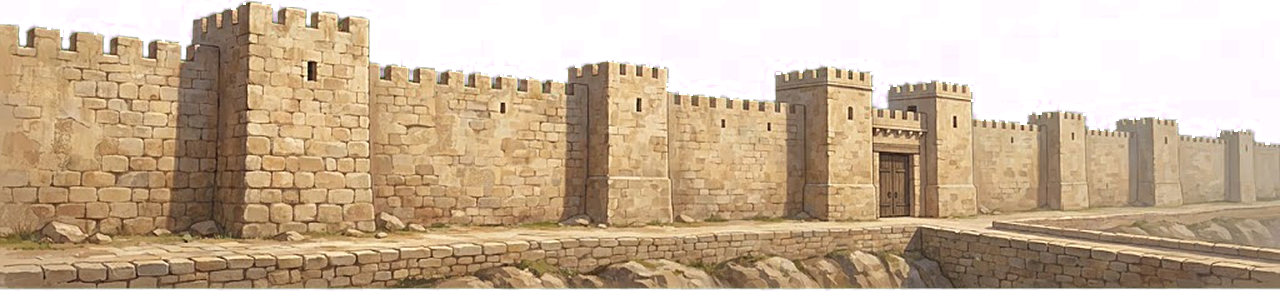
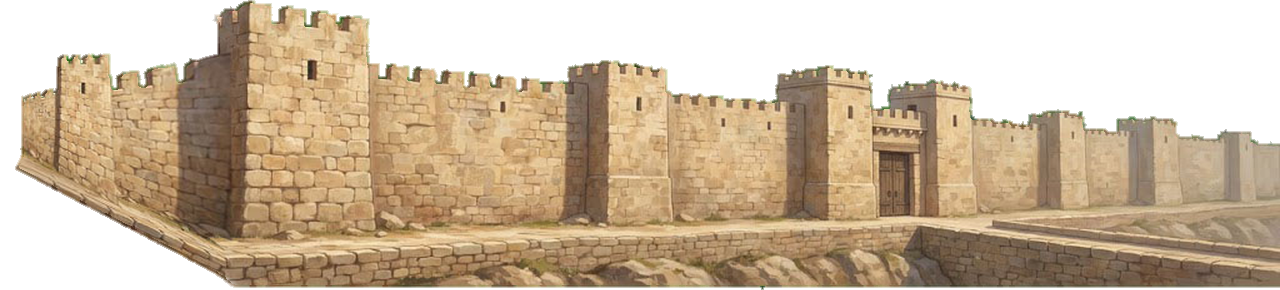
Jerusalem plays again once won (Glen: "it just ends ... nothing to do. David is just there with another guy"): back in after the end, its story starts over at the walls, the map's tick and the Journal's pages kept (jx_ flags); Glen's resaved wall, its new left side, keyed off white (Zion's citadel w
Claude-Session: https://claude.ai/code/session_018JCxWJ972csv1aoHy7ivxa

diff --git a/game/jerusalem.js b/game/jerusalem.js
@@ -77,11 +77,11 @@ HEB.rooms.push(
     far: "w8/jerusalem/zion/far", mid: "w8/jerusalem/zion/mid.png", midY: 386, near: "w8/jerusalem/zion/near.png", nearK: 0.8 },   // (Glen 11-26, Gemini)
 );
 HEB.spreads.push(
-  { id: "js_zion", when: "jr_end", title: "Jerusalem",
+  { id: "js_zion", when: "jx_zion", title: "Jerusalem",
     entry: ["The Jebusites laughed at us from their walls: even the blind and the lame could keep us out. The way in was hidden, under the ground, and I could only find it one step at a time. Now the stronghold of Zion is the LORD's city, and mine to keep for Him.", "2 Samuel 5:6-10"],
     psalm: { ref: "Psalm 122", text: "I was glad when they said to me, “Let’s go to the LORD’s house!” Our feet are standing within your gates, Jerusalem! (122:1-2)" } },
   // (Glen 11-25: his two clips "for the end of the game") the ark comes into the city: his last page
-  { id: "js_ark", when: "jr_ark", title: "The Ark Comes Home", final: true,
+  { id: "js_ark", when: "jx_ark", title: "The Ark Comes Home", final: true,
     entry: ["The ark of the LORD has come into Jerusalem, with shouting and the sound of the trumpet, and I danced before the LORD with all my might. Through the caves and the long years of running, He kept every promise. My heart is steadfast.", "2 Samuel 6:12-15"],
     psalm: { ref: "Psalm 24", text: "Lift up your heads, you gates! Be lifted up, you everlasting doors, and the King of glory will come in. (24:7)" } },
 );
@@ -105,6 +105,16 @@ Object.assign(HEB, {
 
 // ---------------------------------------------------------------------------------------------------------------------
 function jrBuild(R) {
+  // (Glen 11-27: back in after the end "it just ends ... nothing to do. David is just there with another guy") once the
+  //  stronghold is won, Jerusalem plays again from the walls: its story flags off (jx_: what stays won, the map's tick
+  //  and the Journal's pages), back to the valley
+  { const S = region.save;
+    if ((S.taken || []).includes("jr_end")) {   // (the stronghold won: from the ark films on, or left partway through them)
+      for (const [a, b] of [["jr_end", "jx_zion"], ["jr_ark", "jx_ark"]]) if (S.taken.includes(a) && !S.taken.includes(b)) S.taken.push(b);
+      S.taken = S.taken.filter(k => !/^jr_/.test(k));
+      if (!S.atRoom || JR_ROOMS.includes(S.atRoom)) { S.atRoom = "jvalley"; S.atOff = 3; S.at = 0; }
+      regionWrite();
+    } }
   jr.found = {}; jr.stand = null; jr.shown = null; jr.ended = false; jr.water = null; jr.cp = null; jr.jeb.length = 0;
   const P = hbPerson;
   ["w8/jerusalem/jvalley/wall.png", "w8/jerusalem/jvalley/fortress_wall.png", "w8/jerusalem/gorge/bridge.png", "w8/jerusalem/gorge/cliff_l.png", "w8/jerusalem/gorge/cliff_r.png", "w8/jerusalem/gorge_pit.png"].forEach(roomImg);   // (drawn by jrAfterMid, not as a room layer)
@@ -402,7 +412,7 @@ function jrZion() {
     { fn() { david.vx = 0; david.facing = 1; } }, { wait: 2 },
     HB_SAY("", "Nevertheless David took the stronghold of Zion. This is David’s city. (2 Samuel 5:7)"),
     HB_SAY("", "David lived in the stronghold, and called it David’s city. David built around from Millo and inward. David grew greater and greater, for the LORD, the God of Armies, was with him. (2 Samuel 5:9-10)"),
-    { fn() { regionAdd("taken", "jr_end"); regionAdd("taken", "g_exit_open"); hb.cine = null; } }, { wait: 1.2 },
+    { fn() { regionAdd("taken", "jr_end"); regionAdd("taken", "jx_zion"); regionAdd("taken", "g_exit_open"); hb.cine = null; } }, { wait: 1.2 },
     { fn() { jrArk(); } },
   ]);
 }
@@ -413,7 +423,7 @@ function jrArk() {
     HB_SAY("", "David went and brought up God’s ark from the house of Obed-Edom into David’s city with joy. (2 Samuel 6:12)"),
     { fn() {
       region.wait = 99;   // (held here till the films are done)
-      const last = () => { regionAdd("taken", "jr_ark"); region.wait = 0; jsceneOpen(true, "js_ark"); };   // (his last page; then the card, and the road)
+      const last = () => { regionAdd("taken", "jr_ark"); regionAdd("taken", "jx_ark"); region.wait = 0; jsceneOpen(true, "js_ark"); };   // (his last page; then the card, and the road)
       if (/simgame/.test(location.pathname) && !window.JR_FILMS) return last();
       songToggle(true);
       preFilm.start({ src: "../assets/video/ark_enter.mp4", words: [[0.6, 5.4, "The ark comes to Jerusalem", "“…with shouting and with the sound of the trumpet.” (2 Samuel 6:15)"]] }, () =>

diff --git a/game/landmap.js b/game/landmap.js
@@ -20,7 +20,7 @@ const LAND_PLACES = [   // (11-06 draft: placed so the road never crosses itself
   { id: "hachilah", name: "Hachilah", world: "World 7", x: 868, y: 582, stage: "9-13", key: "w7", done: ["h7_end"], room: "wild", after: "carmel" },   // (11-21: w7.js)
   { id: "ziklag", name: "Ziklag", world: "World 7", x: 656, y: 512, stage: "9-13", key: "w7", done: ["z7_end"], room: "aphek", after: "hachilah" },   // (11-23: zk7.js)
   { id: "hebron", name: "Hebron", world: "World 8", x: 887, y: 168, stage: "9-14", key: "hebron", done: ["hb_end"], after: "ziklag" },   // (11-24: hebron.js)
-  { id: "jerusalem", name: "Jerusalem", world: "World 8", x: 688, y: 34, stage: "9-14", key: "hebron", done: ["jr_end"], room: "jvalley", after: "hebron" },   // (11-25: jerusalem.js, a second stop on Hebron's stage)
+  { id: "jerusalem", name: "Jerusalem", world: "World 8", x: 688, y: 34, stage: "9-14", key: "hebron", done: ["jx_zion"], room: "jvalley", after: "hebron" },   // (11-25: jerusalem.js, a second stop on Hebron's stage)
 ];
 // (testing: "?landall" shows every place and road, numbered in story order, to see the whole land at once)
 const LAND_ALL = new URLSearchParams(location.search).has("landall");

diff --git a/tools/tests/jrreplay.js b/tools/tests/jrreplay.js
@@ -1,0 +1,10 @@
+// (11-27) a finished Jerusalem plays again from the walls (Glen: "it just ends ... nothing to do")
+startSetup = () => {}; setup.active = false; helpT = 0;
+const log = m => TEST_ERRORS.push("INFO " + m);
+const snap = { keys: [], n: 2, snap: true };
+testRun([
+  { n: 1, fn() { log("start room " + (region.room && region.room.id) + " taken jr " + region.save.taken.filter(k => /^j[rx]_/.test(k)).join(",") + " foes " + jr.foes.length + " pages " + jSpreads().map(s => s.id).join(",")); } },
+  { keys: [], n: 60 }, snap,
+  { n: 1, fn() { log("script " + region.script.length + " cine " + !!hb.cine); } },
+  { n: 1, fn() { region.script.length = 0; hb.cine = null; region.save.taken = region.save.taken.filter(k => !/^j[rx]_/.test(k)); regionWrite(); } },
+]);

diff --git a/tools/key_jerusalem.py b/tools/key_jerusalem.py
@@ -70,3 +70,16 @@ Image.fromarray(a.clip(0, 255).astype(np.uint8)).save(os.path.join(out("gorge"),
 for nm in ("fortress_wall", "tileable_wall"):
     a = np.asarray(Image.open(os.path.join(ART, nm + ".png")).convert("RGBA")).copy(); s = a[:150, :, 3]; s[s < 90] = 0
     Image.fromarray(a).save(os.path.join(out("jvalley"), nm + ".png"), optimize=True); print("jvalley", nm, a.shape[1], "x", a.shape[0])
+# (Glen 11-27: "jvalley mid" resaved on white, a side put on the wall's left end) keyed off its white, not green:
+#  py "<scratchpad>/wallkey.py" logic, kept here
+def keyWhite(im):
+    from scipy import ndimage
+    a = np.asarray(im).astype(np.float32); d = 255 - a.min(2); bg = d < 40
+    lab, n = ndimage.label(bg); edge = set(np.unique(np.r_[lab[0], lab[-1], lab[:, 0], lab[:, -1]])) - {0}
+    bg = np.isin(lab, list(edge)); dist = ndimage.distance_transform_edt(~bg)   # (only the white that reaches the picture's edge)
+    al = np.clip(dist / 2.5, 0, 1) * np.clip((d - 12) / 40, 0, 1) ** 0.5; al[dist > 3] = 1
+    a4 = np.dstack([a, al * 255]); inner = ndimage.grey_erosion(a4[..., :3], size=(5, 5, 1)); e = (dist > 0) & (dist < 4)
+    a4[..., :3][e] = np.minimum(a4[..., :3][e], inner[e] * 1.05); a4[:, :6, 3] = 0
+    return Image.fromarray(a4.clip(0, 255).astype(np.uint8))
+im = Image.open(os.path.join(ART, "jvalley mid.jpg")).convert("RGB"); im = im.resize((round(im.width * 720 / im.height), 720), Image.LANCZOS)
+k, top = crop(keyWhite(im)); k.save(os.path.join(out("jvalley"), "wall.png"), optimize=True); print("jvalley wall (white key) top", top, "size", k.size)
